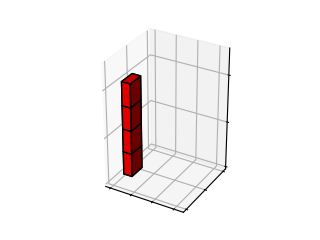
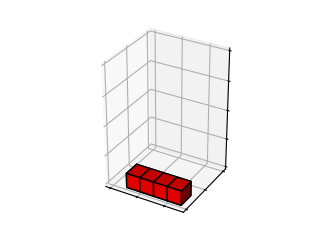
can move pieces better but still bad

diff --git a/static/script.js b/static/script.js
@@ -42,6 +42,7 @@
 
 // Iterate through Rumis turns
 document.getElementById("nextTurn").addEventListener("click", nextTurn);
+document.getElementById("next_turn_2x1").addEventListener("click", nextTurn_2x1);
 
 function nextTurn() {
 
@@ -78,6 +79,37 @@ function nextTurn() {
 
 }
 
+function nextTurn_2x1() {
+    var image = document.getElementById("gameBoard");
+    image.src = 'static/loading.gif'
+    var piece = document.getElementById('piece').value;
+    var x = document.getElementById('x').value;
+    var y = document.getElementById('y').value;
+    var z = document.getElementById('z').value;
+    fetch('/nextturn', {
+        method: 'POST',
+        headers: {
+            'Content-Type': 'application/json',
+        },
+        body: JSON.stringify({ 'piece': '2x1', 'x': x, 'y': y, 'z': z })
+        }
+    )
+    .then((response) => {
+        if (!response.ok) {
+            throw new Error(`HTTP error: ${response.status}`);
+        }
+        return response.json();
+    })
+    .then((data) => {
+        console.log(data);
+        document.getElementById('output').innerHTML = `Turns: ${data.turn}`;
+        var timestamp = new Date().getTime();
+        var image = document.getElementById("gameBoard");
+        image.src = `static/test_0.png?t=${timestamp}`
+    });
+
+}
+
 
 // Rotate board
 document.getElementById("rotate").addEventListener("click", rotate);
@@ -97,11 +129,9 @@ function rotate(){
     }
 }
 
-// Update visual of all playable pieces
+// Update visual of all playable pieces  # TODO: there has to be a better way to do this
 document.getElementById("move_right").addEventListener("click", moveRight);
-
 function moveRight() {
-
     fetch('/movePiece', {
             method: 'POST',
             headers: {
@@ -119,8 +149,145 @@ function moveRight() {
     .then((data) => {
         var timestamp = new Date().getTime();
         // Loop through array of each piece
-        var image = document.getElementById("4x1");
-        image.src = `static/4x1.png?t=${timestamp}`
+        const pieces = ['4x1', '3x1', '2x1', 'L', 'square', 'corner', 'pipe', 'bend', 'archer', 'twistL', 'twistR']
+        for (const piece of pieces) {
+            var image = document.getElementById(piece);
+            image.src = `static/${piece}.png?t=${timestamp}`
+        }
     });
+}
 
+document.getElementById("move_left").addEventListener("click", moveLeft);
+function moveLeft() {
+    fetch('/movePiece', {
+            method: 'POST',
+            headers: {
+                'Content-Type': 'application/json',
+            },
+            body: JSON.stringify({ 'move': 'left' })
+            }
+    )
+    .then((response) => {
+        if (!response.ok) {
+            throw new Error(`HTTP error: ${response.status}`);
+        }
+        return response.json();
+    })
+    .then((data) => {
+        var timestamp = new Date().getTime();
+        // Loop through array of each piece
+        const pieces = ['4x1', '3x1', '2x1', 'L', 'square', 'corner', 'pipe', 'bend', 'archer', 'twistL', 'twistR']
+        for (const piece of pieces) {
+            var image = document.getElementById(piece);
+            image.src = `static/${piece}.png?t=${timestamp}`
+        }
+    });
+}
+
+document.getElementById("move_up").addEventListener("click", moveUp);
+function moveUp() {
+    fetch('/movePiece', {
+            method: 'POST',
+            headers: {
+                'Content-Type': 'application/json',
+            },
+            body: JSON.stringify({ 'move': 'up' })
+            }
+    )
+    .then((response) => {
+        if (!response.ok) {
+            throw new Error(`HTTP error: ${response.status}`);
+        }
+        return response.json();
+    })
+    .then((data) => {
+        var timestamp = new Date().getTime();
+        // Loop through array of each piece
+        const pieces = ['4x1', '3x1', '2x1', 'L', 'square', 'corner', 'pipe', 'bend', 'archer', 'twistL', 'twistR']
+        for (const piece of pieces) {
+            var image = document.getElementById(piece);
+            image.src = `static/${piece}.png?t=${timestamp}`
+        }
+    });
+}
+
+document.getElementById("move_down").addEventListener("click", moveDown);
+function moveDown() {
+    fetch('/movePiece', {
+            method: 'POST',
+            headers: {
+                'Content-Type': 'application/json',
+            },
+            body: JSON.stringify({ 'move': 'down' })
+            }
+    )
+    .then((response) => {
+        if (!response.ok) {
+            throw new Error(`HTTP error: ${response.status}`);
+        }
+        return response.json();
+    })
+    .then((data) => {
+        var timestamp = new Date().getTime();
+        // Loop through array of each piece
+        const pieces = ['4x1', '3x1', '2x1', 'L', 'square', 'corner', 'pipe', 'bend', 'archer', 'twistL', 'twistR']
+        for (const piece of pieces) {
+            var image = document.getElementById(piece);
+            image.src = `static/${piece}.png?t=${timestamp}`
+        }
+    });
+}
+
+document.getElementById("move_away").addEventListener("click", moveAway);
+function moveAway() {
+    fetch('/movePiece', {
+            method: 'POST',
+            headers: {
+                'Content-Type': 'application/json',
+            },
+            body: JSON.stringify({ 'move': 'away' })
+            }
+    )
+    .then((response) => {
+        if (!response.ok) {
+            throw new Error(`HTTP error: ${response.status}`);
+        }
+        return response.json();
+    })
+    .then((data) => {
+        var timestamp = new Date().getTime();
+        // Loop through array of each piece
+        const pieces = ['4x1', '3x1', '2x1', 'L', 'square', 'corner', 'pipe', 'bend', 'archer', 'twistL', 'twistR']
+        for (const piece of pieces) {
+            var image = document.getElementById(piece);
+            image.src = `static/${piece}.png?t=${timestamp}`
+        }
+    });
+}
+
+document.getElementById("move_towards").addEventListener("click", moveTowards);
+function moveTowards() {
+    fetch('/movePiece', {
+            method: 'POST',
+            headers: {
+                'Content-Type': 'application/json',
+            },
+            body: JSON.stringify({ 'move': 'towards' })
+            }
+    )
+    .then((response) => {
+        if (!response.ok) {
+            throw new Error(`HTTP error: ${response.status}`);
+        }
+        return response.json();
+    })
+    .then((data) => {
+        var timestamp = new Date().getTime();
+        // Loop through array of each piece
+        const pieces = ['4x1', '3x1', '2x1', 'L', 'square', 'corner', 'pipe', 'bend', 'archer', 'twistL', 'twistR']
+        for (const piece of pieces) {
+            var image = document.getElementById(piece);
+            image.src = `static/${piece}.png?t=${timestamp}`
+        }
+    });
 }

diff --git a/app.py b/app.py
@@ -26,25 +26,29 @@ def hello():
     return render_template('index.html')
 
 
-@app.route('/process', methods=['POST'])
-def process():
-    data = request.get_json()  # retrieve the data sent from JavaScript
-    # process the data using Python code
-    result = data['value'] * 2
-    return jsonify({'result': result})  # return the result to JavaScript
-
-
 @app.route('/nextturn', methods=['POST'])
 def nextTurn():
     data = request.get_json()  # retrieve the data sent from JavaScript
-    # process the data using Python code
+    print(data)
+
     session['turn'] += 1
 
     print(f"Turn: {session['turn']}")
 
     players = jsonpickle.decode(session['players'])
     grid = jsonpickle.decode(session['grid'])
-    players, grid, ax, ax_90, ax_180, ax_270 = play_turn(session['turn'], players, grid)
+    players[str(2)].draw_pieces(grid, 0, 0, 0)  # TODO: hardcoded
+
+    if (session['turn'] % 4) + 1 != 2:  # TODO: hardcoded
+        players, grid, ax, ax_90, ax_180, ax_270 = play_turn(session['turn'], players, grid)
+    else:
+        # players, grid, ax, ax_90, ax_180, ax_270 = human_move(players, grid, int(data['piece']), int(data['x']), int(data['y']), int(data['z']))
+        players, grid, ax, ax_90, ax_180, ax_270 = human_move(players, grid, data['piece'], int(data['x']), int(data['y']), int(data['z']))
+
+    # Reset profile places for each player
+    for player in players.values():
+        player.piece_profile_positions = (0, 0, 0)
+
     session['players'] = jsonpickle.encode(players)
     session['grid'] = jsonpickle.encode(grid)
 
@@ -52,7 +56,50 @@ def nextTurn():
     ax_90.figure.savefig('static//test_90.png', format='png')
     ax_180.figure.savefig('static//test_180.png', format='png')
     ax_270.figure.savefig('static//test_270.png', format='png')
+
     return jsonify({'turn': session['turn']})  # return the result to JavaScript
+
+
+@app.route('/movePiece', methods=['POST'])
+def move_piece():
+    data = request.get_json()
+    players = jsonpickle.decode(session['players'])
+    grid = jsonpickle.decode(session['grid'])
+    move = data['move']
+    if move == 'right':
+        for player in players.values():
+            current_x, current_y, current_z = player.piece_profile_positions
+            player.piece_profile_positions = (current_x, current_y, current_z + 1)
+        players[str(2)].draw_pieces(grid, current_x, current_y, current_z + 1)  # TODO: hardcoded
+    elif move == 'left':
+        for player in players.values():
+            current_x, current_y, current_z = player.piece_profile_positions
+            player.piece_profile_positions = (current_x, current_y, current_z - 1)
+        players[str(2)].draw_pieces(grid, current_x, current_y, current_z - 1)  # TODO: hardcoded
+    elif move == 'away':
+        for player in players.values():
+            current_x, current_y, current_z = player.piece_profile_positions
+            player.piece_profile_positions = (current_x + 1, current_y, current_z)
+        players[str(2)].draw_pieces(grid, current_x + 1, current_y, current_z)  # TODO: hardcoded
+    elif move == 'towards':
+        for player in players.values():
+            current_x, current_y, current_z = player.piece_profile_positions
+            player.piece_profile_positions = (current_x - 1, current_y, current_z)
+        players[str(2)].draw_pieces(grid, current_x - 1, current_y, current_z)  # TODO: hardcoded
+    elif move == 'up':
+        for player in players.values():
+            current_x, current_y, current_z = player.piece_profile_positions
+            player.piece_profile_positions = (current_x, current_y + 1, current_z)
+        players[str(2)].draw_pieces(grid, current_x, current_y + 1, current_z)  # TODO: hardcoded
+    elif move == 'down':
+        for player in players.values():
+            current_x, current_y, current_z = player.piece_profile_positions
+            player.piece_profile_positions = (current_x, current_y - 1, current_z)
+        players[str(2)].draw_pieces(grid, current_x, current_y - 1, current_z)  # TODO: hardcoded
+
+    session['players'] = jsonpickle.encode(players)
+
+    return jsonify({'result': 'hi'})  # return the result to JavaScript
 
 
 if __name__ == '__main__':

diff --git a/modules/functions.py b/modules/functions.py
@@ -15,11 +15,8 @@ class Competitor:
         self.color = color
         self.still_playing = True
         self.piece_list = [
-            # self.number * np.array([[[1,1,1,1]], [[0,0,0,0]]]),
             self.number * np.array([[[1, 1, 1, 1]]]),
-            # self.number * np.array([[[1,1,1]], [[0,0,0]]]),
             self.number * np.array([[[1, 1, 1]]]),
-            # self.number * np.array([[[1,1]], [[0,0]]]),
             self.number * np.array([[[1, 1]]]),
             # TODO: fix rest of pieces
             self.number * np.array([[[1,0,0], [1,1,1]], [[0,0,0],[0,0,0]]]),
@@ -34,6 +31,7 @@ class Competitor:
         self.piece_names_list = [
             '4x1', '3x1', '2x1', 'L', 'square', 'corner', 'pipe', 'bend', 'archer', 'twistL', 'twistR'
         ]
+        self.piece_profile_positions = (0, 0, 0)
 
     def draw_pieces(self, grid, x=0, y=0, z=0):
         ax = plt.figure(figsize=(3.2, 2.4)).add_subplot(projection='3d')
@@ -41,6 +39,7 @@ class Competitor:
             empty_grid = board('chullpa')  # TODO: hardcoded
             layer = fill_out2(piece, empty_grid.grid, x, y, z)
             piece_grid = empty_grid.grid + layer
+            piece_grid = np.rot90(piece_grid, k=1, axes=(0, 2))
 
             color = []
             for i, layer in enumerate(piece_grid):
@@ -321,7 +320,12 @@ def play_move(player, grid, start, turn_2):
 
 def human_move(players, grid, piece_i, x, y, z):
     player = players[str(2)]  # TODO: hardcoded
+
+    piece_i = player.piece_names_list.index(piece_i)
     piece = player.piece_list[piece_i]
+    x, y, z = player.piece_profile_positions
+    print(x, y, z)
+
     piece_name = player.piece_names_list[piece_i]
     layer = fill_out2(piece, grid.grid, x, y, z)
     grid.grid += layer
